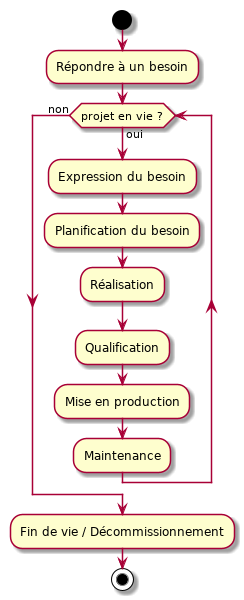
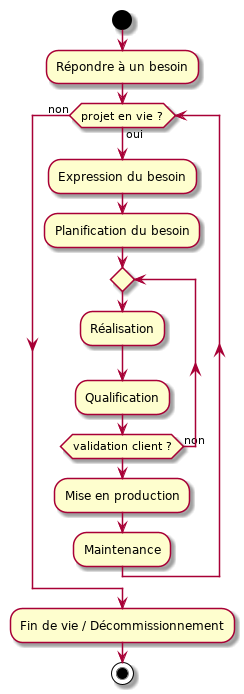
WIP on cycle de vie

diff --git a/content/cycle_vie_application.tex b/content/cycle_vie_application.tex
@@ -84,62 +84,40 @@ Il est ainsi nécessaire de trier les fonctionnalités par priorité. En effet, 
 
 %% https://fr.wikipedia.org/wiki/M%C3%A9thode_MoSCoW
 
-Concernant la planification d'un projet, l'organisation de ce dernier passe souvent par l'élaboration de \glsplural{gantt} pour représenter de façon graphique les jalons du cycle de vie d'une application.
+Concernant la planification d'un projet, l'organisation de ce dernier passe souvent par l'élaboration de \glsplural{gantt} (ou équivalent) pour représenter de façon graphique les jalons du cycle de vie d'une application (fin des développements, phase de qualification, mise en production, réunions périodiques de suivi, durée de chaque sprint\ldots).
 
-\newImage{0.4}{gantt.png}{Exemple de \gls{gantt} - \url{wikimedia.org}}{gantt}
+\newImage{0.4}{gantt.png}{Exemple de Gantt - \url{wikimedia.org}}{gantt}
 
-Un \gls{gantt} contient donc les différents jalons du cycle de vie d'une application, mais il est aussi nécessaire de prévoir les éléments pouvant être bloquants. Par exemple, dans le cas de collecte de données utilisateurs afin de réaliser un traitement, il convient de prévoir un délai pour effectuer les démarches auprès de la \gls{cnil}, prévoir un délai de validation du contrat avec les différents prestataires, les délais de réponse au sein de l'organisation afin de valider le projet... De plus, on peut également prévoir les dates des kick-off et autres ateliers aidant à exprimer les besoins sur certaines fonctionnalités, en collaboration avec le client.
-
-\todo[color=cyan]{PRIORITY TO FINISH REWORK THIS}
-
-L'expression du besoin était auparavant réalisé par le client, puis donnée au dev qui se débrouillait avec et attendant la prochaine version pour corriger si cela ne collait pas. Maintenant agilité, évolution en fonction de, atelier pour guider client,....
-
-%% Parler kick-off projet pour exprimer besoin au travers d'ateliers
-
-%%%%%%%%%%%%%%%%%%%%%
-
-\todo{Parler de la partie historique agilité vs cycel V ici avant d'aborder priorisation}
-
-\todo[color=cyan]{Finir la partie planification}
-
-- Définition risques juridiques / légaux (GDPR, CNIL...).
-
-TODO : Il doit également tenir compte du temps pris par les tâches qui ne sont pas de nature technique (réunions, rapports, congés maladie, etc.) 
-
-\begin{itemize}
-	\setlength\itemsep{-0.5em}
-	\item Les dates des ateliers de définitions du besoin entre équipe de développement et client
-	\item Les dates de recette et de pré-production du service
-	\item La validation client
-	\item Les différentes réunions de suivi du projet
-	\item Son annonce au public
-	\item Sa mise en production
-	\item ...
-\end{itemize}
-
-\todo[color=cyan]{Planification}
+Un \gls{gantt} contient donc les différents jalons du cycle de vie d'une application, mais il est aussi nécessaire de prévoir les éléments pouvant être bloquants. Par exemple, dans le cas de collecte de données utilisateurs afin de réaliser un traitement, il convient de prévoir un délai pour effectuer les démarches auprès de la \gls{cnil}, prévoir un délai de validation du contrat avec les différents prestataires, les délais de réponse au sein de l'organisation afin de valider le projet, les démarches administratives (conditions générales d'utilisations à rédiger par des cabinets d'avocats)... De plus, on peut également prévoir les dates des kick-off et autres ateliers aidant à exprimer les besoins sur certaines fonctionnalités, en collaboration avec le client. Selon la granularité souhaitée, on pourra également y faire figurer, à titre indicatif pour les équipes en charge de la réalisation, les dates à partir de laquelle le client va faire la promotion de son application (\emph{et par conséquent, la date à laquelle l'application doit être plus ou moins prête})
 
 \subsection{Réalisation}
 
-La réalisation de l'application intervient après la validation du besoin avec le client. Démarre alors la conception de la charte graphique, la réflexion sur les différentes fonctionnalités demandées, ainsi que les réalisations à proprement parler pour concevoir le site. La réalisation peut se dérouler de deux manières différentes.
+La réalisation de l'application intervient après la validation du besoin avec le client. Démarre alors la conception de maquette basée sur les exigences de la charte graphique, la réflexion sur la façon d'implémenter les différentes fonctionnalités demandées, ainsi que les réalisations à proprement parler pour concevoir le site. Ces étapes peuvent s'étaler, dans le cas d'une méthodologie agile, sur plusieurs sprints selon la complexité du projet.
 
-- Réalisation graphique
+Une phase de réalisation, en particulier au commencement d'un projet, n'est pas l'équipe de développement tapant à toute vitesse sur son clavier pour livrer au plus vite l'application. L'une des premières étapes est de définir un environnement de développement, souvent avec plusieurs outils additionnels, afin d'aider la phase de développement.
 
-- Plusieurs itérations
+\todo[color=orange]{Ne pas citer d'exemple d'outils additionnels, cela sera fait dans la partie 3, phase locale de développement.}
 
-- Retour client, demande de précisions sur les fonctionnalités
+Il s'agit ensuite de déterminer la façon dont vont être réalisés les développements. Si le projet est un blog basique, on peut envisager l'utilisation d'un \gls{cms}, puisqu'il n'est peut-être pas utile de réinventer la roue pour ce besoin, sachant que des dizaines de solutions existent déjà. Il faudra alors réaliser une étude afin de déterminer l'outil le plus adapté parmi ceux existants, tout en prenant en compte les contraintes du projet (\emph{par exemple, si le client souhaite exclusivement un projet en \gls{PHP}, il ne sert à rien de lui proposer un \gls{cms} en java}).
 
-- Développement de tests
+Si les besoins sont plus complexe, on peut envisager deux possibilités.
 
-\todo[color=cyan]{Réalisation}
+\begin{enumerate}
+	\item L'utilisation de \gls{framework} qui permet de démarrer rapidement un projet, à condition de maitriser le \gls{framework}. Ce dernier peut en effet nécessiter une courbe d'apprentissage plus ou moins importante selon ce que l'on souhaite en faire. De plus, si le \gls{framework} est une boite à outil permettant de définir des normes de travail afin de gagner en efficacité et de fournir un socle de travail commun à toute l'équipe de développement, il n'est peut-être pas adapté à tous les cas, au risque de rapidement se retrouver dans la position ou l'on va constamment \emph{tordre} le comportement du \gls{framework} pour obtenir le résultat escompté.
+	\item Un développement \emph{from scratch} également appelé développement maison qui consiste à construire une solution depuis zéro, ce qui implique un temps de développement potentiellement plus long et une maintenance nécessitant de se former sur le projet spécifiquement. En effet, les \gls{framework} permettent une intervention d'un développeur externe au projet plus facile, à condition qu'il ai connaissance du \gls{framework}, tandis que dans le cas d'un projet \emph{from scratch}, il est plus compliqué d'intervenir rapidement sans connaitre le projet. Néanmoins, cela offre une totale liberté et ne ferme pas de porte, comme peuvent le faire certains \gls{framework} en déconseillant ou forçant (\emph{à tort ou à raison}) certaines pratiques.
+\end{enumerate}
+
+Une des phases souvent négligées dans les projets est la phase de tests. En effet, il est essentiel de garantir le bon fonctionnement du projet, autrement que par un \frquote{Cela marche sur mon poste, c'est bon !}. Le client souhaite des tests afin de s'assurer du bon fonctionnement de son application, et pour être rassuré\footnote{Même s'il est impossible de garantir une application sans bug} quant à l'apparition d'un bug en production, pouvant potentiellement impacter son activité, chiffre d'affaires ou la relation avec ses clients. Il existe différents types de test, chacun ayant une responsabilité différentes. Nous aborderons les détails à propos des tests dans la partie sur \frquote{\nameref{importance-test}} (p. \pageref{importance-test})
 
 \subsection{Qualification}
 
-La phase de qualification permet au client d'avoir un premier contact avec son application. C'est également durant ce temps que sont lancés plusieurs tests de performance, des tests de qualités... Pour s'assurer que l'application se comporte correctement.
+Comme il a été dit précédemment, une phase de réalisation ne s'effectue pas en une fois\footnote{sauf exceptions, par exemple dans le cas d'un projet très court}, et va donc être découpé sous forme de sprint. A la fin de chaque sprint, dont la durée est déterminée durant la phase de planification, il va être présenter au client le travail réalisé. Comme indiqué sur le schéma \ref{fig:cycleVieProjet} (p. \pageref{fig:cycleVieProjet}), on peut voir cela comme une succession de \emph{mini-phase} de réalisation et de qualification. Cela va permettre d'obtenir un retour du client avec des éventuelles précisions sur le besoin, des demandes de modifications\ldots Ces itérations vont alors se répéter jusqu'à obtenir une validation du client qui permettra alors la mise en production.
 
-Souvent, l'application va d'abord être déployée en interne, sur un environnement qui sera similaire à celui de la future production. Cela va permettre de vérifier que la configuration de production, qui est souvent très différente de celle de développement (ou l'on a besoin d'outils pour pouvoir débugger l'application, tracer ses performances...), est fonctionnelle. De plus, c'est à ce moment là que l'on va tester la procédure de déploiement de l'application et l'ajuster afin de s'assurer qu'elle permettra un déploiement sans accroche.
+La phase de qualification permet ainsi au client d'avoir un contact direct avec son application. C'est également durant ce temps que sont lancés plusieurs tests de performance, des tests de qualités... Pour s'assurer que l'application se comporte correctement.
 
-Une fois cette phase de qualification interne passée avec succès, l'application sera alors livrée au client, pour qu'il puisse la tester et faire d'éventuelles remontées sur des fonctionnalités manquantes ou non conformes. Il n'est pas rare de voir la phase de qualification se faire en plusieurs phases, puisque c'est en général à ce moment que le client va se rendre compte que la fonctionnalité demandée ne comporte pas tous les cas métiers, ou que l'équipe de développement va s'apercevoir d'un bug et le corriger, en effectuant une nouvelle livraison. Plus cette phase est effectuée avec sérieux et rigueur, moins on a de chance de se retrouver avec un bug en production. 
+Néanmoins, la phase de qualification début rarement par la présentation de l'application au client. En effet, avant cela, l'application va d'abord être déployée en interne, sur un environnement qui sera similaire à celui de la future production. Cela va permettre de vérifier la validité de la configuration de production. De plus, c'est à ce moment là que l'on va tester la procédure de déploiement de l'application et l'ajuster afin de s'assurer qu'elle permettra un déploiement sans accroche, cette fois sur un environnement de production.
+
+La phase de qualification nécessite beaucoup de rigueur. Plus cette phase est effectuée avec sérieux et rigueur, moins il y a de chance de retrouver un bug en production.
 
 Selon les erreurs/retours remontés par le client, elles seront alors évaluées en fonction de l'expression du besoin initial, et catégorisée en bug (et donc corrigée) ou alors en évolution, qui ne sera alors pas traitée tout de suite et entrainera des coûts supplémentaires. Cela peut être le cas si le client, qui souhaitait initialement un formulaire de connexion simple à un service, découvre qu'il ne peut se connecter via un \gls{LDAP}. Étant donné que le client n'avait pas exprimé son besoin, il est logique que ce dernier ait mal été interprété. \emph{Heureusement, ces désagréments sont censés être évités si l'expression du besoin, réalisée en collaboration entre le client et son prestataire, est bien réalisée et ne laisse pas place à des zones d'ombres.}
 
@@ -197,4 +175,4 @@ Quoiqu'il en soit, il faut pouvoir gérer la fin de vie d'un projet correctement
 
 Si l'application est reprise par un autre prestataire, il va se passer une période dite de réversibilité. Durant cette période, le prestataire actuel sera alors en communication afin de fournir les différents livrables pour assurer une bonne transition. 
 
-Si l'application est en fin de vie, il faudra alors communiquer avec les utilisateurs, pour leur proposer de migrer vers des solutions alternatives, et leur proposer un moyen de récupérer leur données.
+Si l'application est en fin de vie, il faudra alors communiquer avec les utilisateurs pour leur proposer de migrer vers des solutions alternatives et leur proposer un moyen de récupérer leur données.

diff --git a/parameters.tex b/parameters.tex
@@ -38,15 +38,15 @@
 
 %% FROM http://forum.mathematex.net/latex-f6/glossaire-t8654.html#p85429
 \renewcommand{\glstextformat}[1]{#1*} % Affichage dans le corps du texte d'une entrée du glossaire
-%\defglsdisplayfirst{#1#4\protect\footnote{#2}}
+\defglsdisplayfirst{#1#4\protect\footnote{#2}}
 
-\defglsentryfmt{%
-	\ifglsused{\glslabel}{%
-		\glsgenentryfmt%
-	}{%
-		\glsgenentryfmt\protect\footnote{\glsentrydesc{\glslabel}}
-	}%
-}
+%\defglsentryfmt{%
+%	\ifglsused{\glslabel}{%
+%		\glsgenentryfmt%
+%	}{%
+%		\glsgenentryfmt\protect\footnote{\glsentrydesc{\glslabel}}
+%	}%
+%}
 
 
 \newtoggle{todoExplain}

diff --git a/glossaire.tex b/glossaire.tex
@@ -94,6 +94,7 @@ Ensuite, dans le contenu, il suffit d'y faire référence comme ceci : "\bsr{}"
 \newAcronym{mvp}{MVP}{Minimum Viable Product}{TODO définition}
 \newAcronym{vtc}{VTC}{Voitures transport avec chauffeur}{TODO définition}
 \newAcronym{SLA}{SLA}{Service Level Agreement}{TODO définition}
+\newAcronym{PHP}{PHP}{PHP Hypertext Preprocessor}{TODO définition}
 
 %%%%%%%%%%%% MOT UTILISES FREQUEMMENT / VARIABLES %%%%%%%%%%%%
 \newcommand{\bv}{Bureau Veritas}

diff --git a/main.tex b/main.tex
@@ -91,7 +91,7 @@
 	\section{Intérêt de la mise en œuvre d'une démarche d'automatisation}
 	\input{content/mise_en_oeuvre}
 \newpage
-	\section{Automatisation du cycle de vie}\label{automatisation}
+	\section{Automatisation du cycle de vie}
 	\input{content/automatiser}
 \newpage
 	\pagestyle{plain} % Juste le numéro de page pour en-tête / pied de page à partir de maintenant
